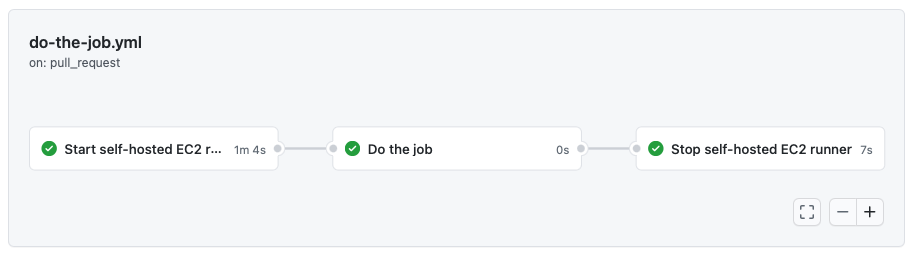
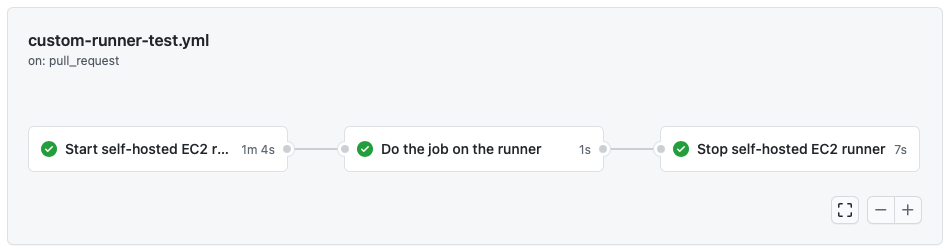
Update README.md and the description in other places

diff --git a/README.md b/README.md
@@ -1,30 +1,87 @@
-# On-demand self-hosted EC2 runner for GitHub Actions
+# On-demand self-hosted AWS EC2 runner for GitHub Actions
 
-Using this GitHub action, you can start a new EC2 instance and register it as a [self-hosted runner in GitHub](https://docs.github.com/en/free-pro-team@latest/actions/hosting-your-own-runners) right before you need it. Then run all the required jobs on it and stop it when you don't need it anymore.
+Start your EC2 [self-hosted runner](https://docs.github.com/en/free-pro-team@latest/actions/hosting-your-own-runners) right before you need it.
+Run the job on it.
+And finally, stop it when you finish.
+
+![GitHub Actions self-hosted EC2 runner](docs/images/github-actions-summary.png)
 
 **Table of Contents**
 
 - [Usage](#usage)
+  - [How to start](#how-to-start)
   - [Inputs](#inputs)
   - [Environment variables](#environment-variables)
   - [Outputs](#outputs)
   - [Example](#example)
+- [Self-hosted runner security with public repositories](self-hosted-runner-security-with-public-repositories)
 - [License Summary](#license-summary)
 
 ## Usage
 
+### How to start
+
+Use the following steps to prepare your workflow for running on your EC2 self-hosted runner:
+
+**1. Prepare AWS access keys**
+
+1. Create new AWS access keys with the following least-privilege permissions.
+   The action will use the keys for EC2 instance management in the AWS account.
+
+```
+{
+  "Version": "2012-10-17",
+  "Statement": [
+    {
+      "Effect": "Allow",
+      "Action": [
+        "ec2:RunInstances",
+        "ec2:TerminateInstances",
+        "ec2:DescribeInstances",
+        "ec2:DescribeInstanceStatus"
+      ],
+      "Resource": "*"
+    }
+  ]
+}
+```
+
+2. Add the keys to GitHub secrets.
+3. Use the [aws-actions/configure-aws-credentials](https://github.com/aws-actions/configure-aws-credentials) action to put the keys into environment variables.
+
+**2. Prepare GitHub personal access token**
+
+1. Create a new GitHub personal access token with the `repo` scope.
+   The action will use the token for self-hosted runners management in the GitHub account on the repository level.
+2. Add the token to GitHub secrets.
+
+**3. Prepare EC2 image**
+
+1. Create a new EC2 image (AMI) from the Linux distribution you need.
+   You don't need to install anything special beforehand into the AMI.
+   The action will install all the necessary tools during the EC2 instance creation.
+
+**4. Configure the GitHub workflow**
+
+1. Create a new GitHub Actions workflow or edit the existing one.
+2. Use the documentation and example below to configure your workflow.
+3. Please don't forget to set up a job for removing the EC2 instance at the end of the workflow execution.
+   Otherwise, the EC2 instance won't be removed and continue to run even after the workflow execution is finished.
+
+Now you're ready to go!
+
 ### Inputs
 
-| Name                | Required                              | Description                                                                                                                                                                                                     |
-| ------------------- | ------------------------------------- | --------------------------------------------------------------------------------------------------------------------------------------------------------------------------------------------------------------- |
-| `mode`              | Always.                               | Specify here which mode you want to use:<br>- `start` - to start a new runner;<br>- `stop` - to stop the previously created runner.                                                                             |
-| `github-token`      | Always.                               | GitHub Personal Access Token with a `repo` scope assigned.                                                                                                                                                      |
-| `ec2-image-id`      | Required if you use the `start` mode. | EC2 AMI Id. <br><br> The new runner will be launched from this image. The action is compatible only with Linux images.                                                                                          |
-| `ec2-instance-type` | Required if you use the `start` mode. | EC2 Instance Type.                                                                                                                                                                                              |
-| `subnet-id`         | Required if you use the `start` mode. | VPC Subnet Id. The subnet should belong to the same VPC as the specified security group.                                                                                                                        |
-| `security-group-id` | Required if you use the `start` mode. | EC2 Security Group Id. <br><br> The security group should belong to the same VPC as the specified subnet. <br><br> The runner doesn't require any inbound traffic. However, outbound traffic should be allowed. |
-| `label`             | Required if you use the `stop` mode.  | Name of the unique label assigned to the runner. <br><br> The label is used to remove the runner from GitHub when the runner is not needed anymore.                                                             |
-| `ec2-instance-id`   | Required if you use the `stop` mode.  | EC2 Instance Id of the created runner. <br><br> The id is used to terminate the EC2 instance when the runner is not needed anymore.                                                                             |
+| &nbsp;&nbsp;&nbsp;&nbsp;&nbsp;&nbsp;&nbsp;&nbsp;&nbsp;&nbsp;&nbsp;&nbsp;&nbsp;&nbsp;Name&nbsp;&nbsp;&nbsp;&nbsp;&nbsp;&nbsp;&nbsp;&nbsp;&nbsp;&nbsp;&nbsp;&nbsp;&nbsp;&nbsp; | Required                              | Description                                                                                                                                                                                                     |
+| ---------------------------------------------------------------------------------------------------------------------------------------------------------------------------- | ------------------------------------- | --------------------------------------------------------------------------------------------------------------------------------------------------------------------------------------------------------------- |
+| `mode`                                                                                                                                                                       | Always required.                      | Specify here which mode you want to use:<br>- `start` - to start a new runner;<br>- `stop` - to stop the previously created runner.                                                                             |
+| `github-token`                                                                                                                                                               | Always required.                      | GitHub Personal Access Token with the `repo` scope assigned.                                                                                                                                                    |
+| `ec2-image-id`                                                                                                                                                               | Required if you use the `start` mode. | EC2 Image Id (AMI). <br><br> The new runner will be launched from this image. The action is compatible only with Linux images.                                                                                  |
+| `ec2-instance-type`                                                                                                                                                          | Required if you use the `start` mode. | EC2 Instance Type.                                                                                                                                                                                              |
+| `subnet-id`                                                                                                                                                                  | Required if you use the `start` mode. | VPC Subnet Id. The subnet should belong to the same VPC as the specified security group.                                                                                                                        |
+| `security-group-id`                                                                                                                                                          | Required if you use the `start` mode. | EC2 Security Group Id. <br><br> The security group should belong to the same VPC as the specified subnet. <br><br> The runner doesn't require any inbound traffic. However, outbound traffic should be allowed. |
+| `label`                                                                                                                                                                      | Required if you use the `stop` mode.  | Name of the unique label assigned to the runner. <br><br> The label is used to remove the runner from GitHub when the runner is not needed anymore.                                                             |
+| `ec2-instance-id`                                                                                                                                                            | Required if you use the `stop` mode.  | EC2 Instance Id of the created runner. <br><br> The id is used to terminate the EC2 instance when the runner is not needed anymore.                                                                             |
 
 ### Environment variables
 
@@ -39,18 +96,14 @@ We recommend using [aws-actions/configure-aws-credentials](https://github.com/aw
 
 ### Outputs
 
-| Name              | Description                                                                                                                                                                                                                               |
-| ----------------- | ----------------------------------------------------------------------------------------------------------------------------------------------------------------------------------------------------------------------------------------- |
-| `label`           | Name of the unique label assigned to the runner. <br><br> The label is used in two cases: <br> - to use as the input of `runs-on` property for the following jobs; <br> - to remove the runner from GitHub when it is not needed anymore. |
-| `ec2-instance-id` | EC2 Instance Id of the created runner. <br><br> The id is used to terminate the EC2 instance when the runner is not needed anymore.                                                                                                       |
+| &nbsp;&nbsp;&nbsp;&nbsp;&nbsp;&nbsp;&nbsp;&nbsp;&nbsp;&nbsp;&nbsp;&nbsp;&nbsp;&nbsp;Name&nbsp;&nbsp;&nbsp;&nbsp;&nbsp;&nbsp;&nbsp;&nbsp;&nbsp;&nbsp;&nbsp;&nbsp;&nbsp;&nbsp; | Description                                                                                                                                                                                                                               |
+| ---------------------------------------------------------------------------------------------------------------------------------------------------------------------------- | ----------------------------------------------------------------------------------------------------------------------------------------------------------------------------------------------------------------------------------------- |
+| `label`                                                                                                                                                                      | Name of the unique label assigned to the runner. <br><br> The label is used in two cases: <br> - to use as the input of `runs-on` property for the following jobs; <br> - to remove the runner from GitHub when it is not needed anymore. |
+| `ec2-instance-id`                                                                                                                                                            | EC2 Instance Id of the created runner. <br><br> The id is used to terminate the EC2 instance when the runner is not needed anymore.                                                                                                       |
 
 ### Example
 
-In the following example, you can see how to start your EC2 self-hosted runner right before the job should be done, run the job on it, and then stop it at the end when you finish:
-
-![GitHub Actions self-hosted EC2 runner](docs/images/github-actions-summary.png)
-
-The workflow, declared in `.github/workflows/do-the-job.yml`, looks like this:
+The workflow showed in the picture above and declared in `do-the-job.yml` looks like this:
 
 ```yml
 name: do-the-job
@@ -64,14 +117,14 @@ jobs:
       ec2-instance-id: ${{ steps.start-ec2-runner.outputs.ec2-instance-id }}
     steps:
       - name: Configure AWS credentials
-        uses: aws-actions/configure-aws-credentials@v1.0.0
+        uses: aws-actions/configure-aws-credentials@v1
         with:
           aws-access-key-id: ${{ secrets.AWS_ACCESS_KEY_ID }}
           aws-secret-access-key: ${{ secrets.AWS_SECRET_ACCESS_KEY }}
           aws-region: ${{ secrets.AWS_REGION }}
       - name: Start EC2 runner
         id: start-ec2-runner
-        uses: machulav/ec2-github-runner@v1
+        uses: machulav/ec2-github-runner@v1.0.0
         with:
           mode: start
           github-token: ${{ secrets.GH_PERSONAL_ACCESS_TOKEN }}
@@ -80,7 +133,7 @@ jobs:
           subnet-id: subnet-123
           security-group-id: sg-123
   do-the-job:
-    name: Do the job
+    name: Do the job on the runner
     runs-on: ${{ needs.start-runner.outputs.label }} # run the job on the newly created runner
     needs: start-runner # required to start the main job when the runner is ready
     steps:
@@ -90,8 +143,8 @@ jobs:
     name: Stop self-hosted EC2 runner
     runs-on: ubuntu-latest
     needs:
-      - start-runner # required to get output from the job in this job
-      - do-the-job # required to remove the runner when the main job is done
+      - start-runner # required to get output from the start-runner job
+      - do-the-job # required to wait when the main job is done
     steps:
       - name: Configure AWS credentials
         uses: aws-actions/configure-aws-credentials@v1
@@ -108,6 +161,14 @@ jobs:
           ec2-instance-id: ${{ needs.start-runner.outputs.ec2-instance-id }}
 ```
 
+## Self-hosted runner security with public repositories
+
+We recommend that you do not use self-hosted runners with public repositories.
+
+Forks of your public repository can potentially run dangerous code on your self-hosted runner machine by creating a pull request that executes the code in a workflow.
+
+Please find more details about this security note on [GitHub documentation](https://docs.github.com/en/free-pro-team@latest/actions/hosting-your-own-runners/about-self-hosted-runners#self-hosted-runner-security-with-public-repositories).
+
 ## License Summary
 
-This code is made available under the MIT license.
+This code is made available under the [MIT license](LICENSE).
